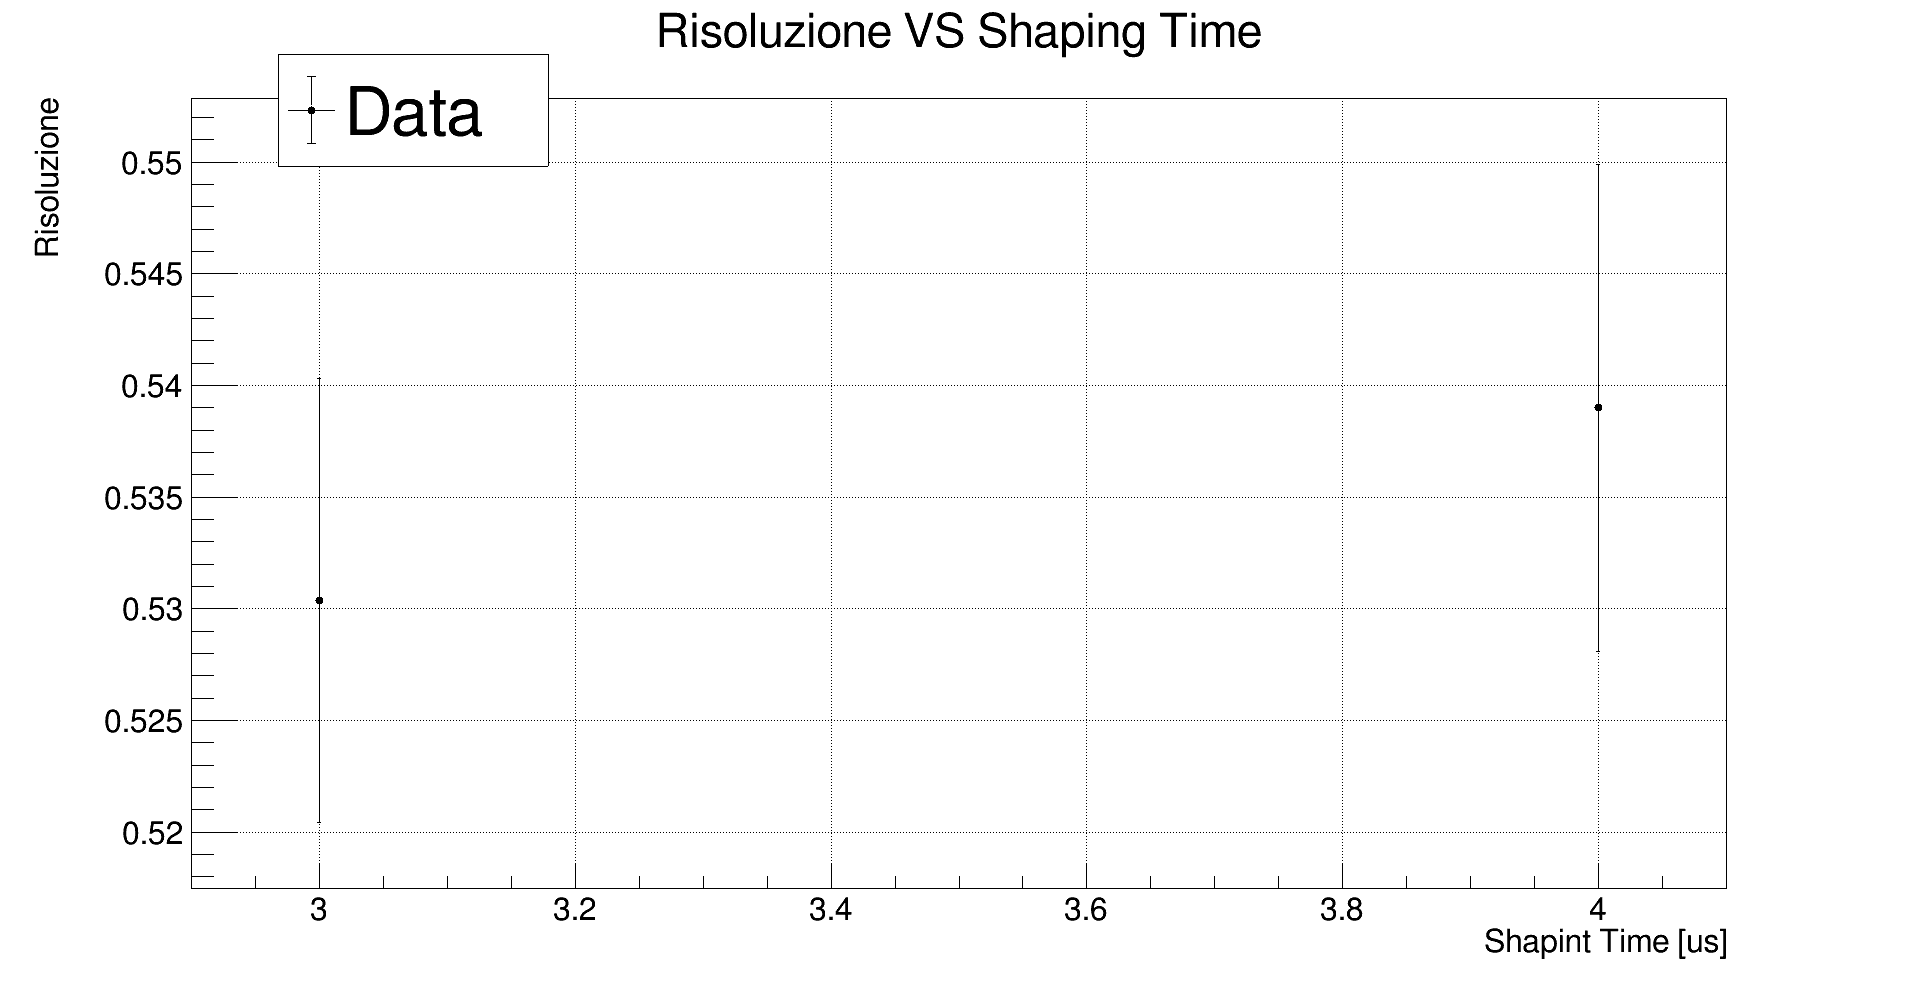
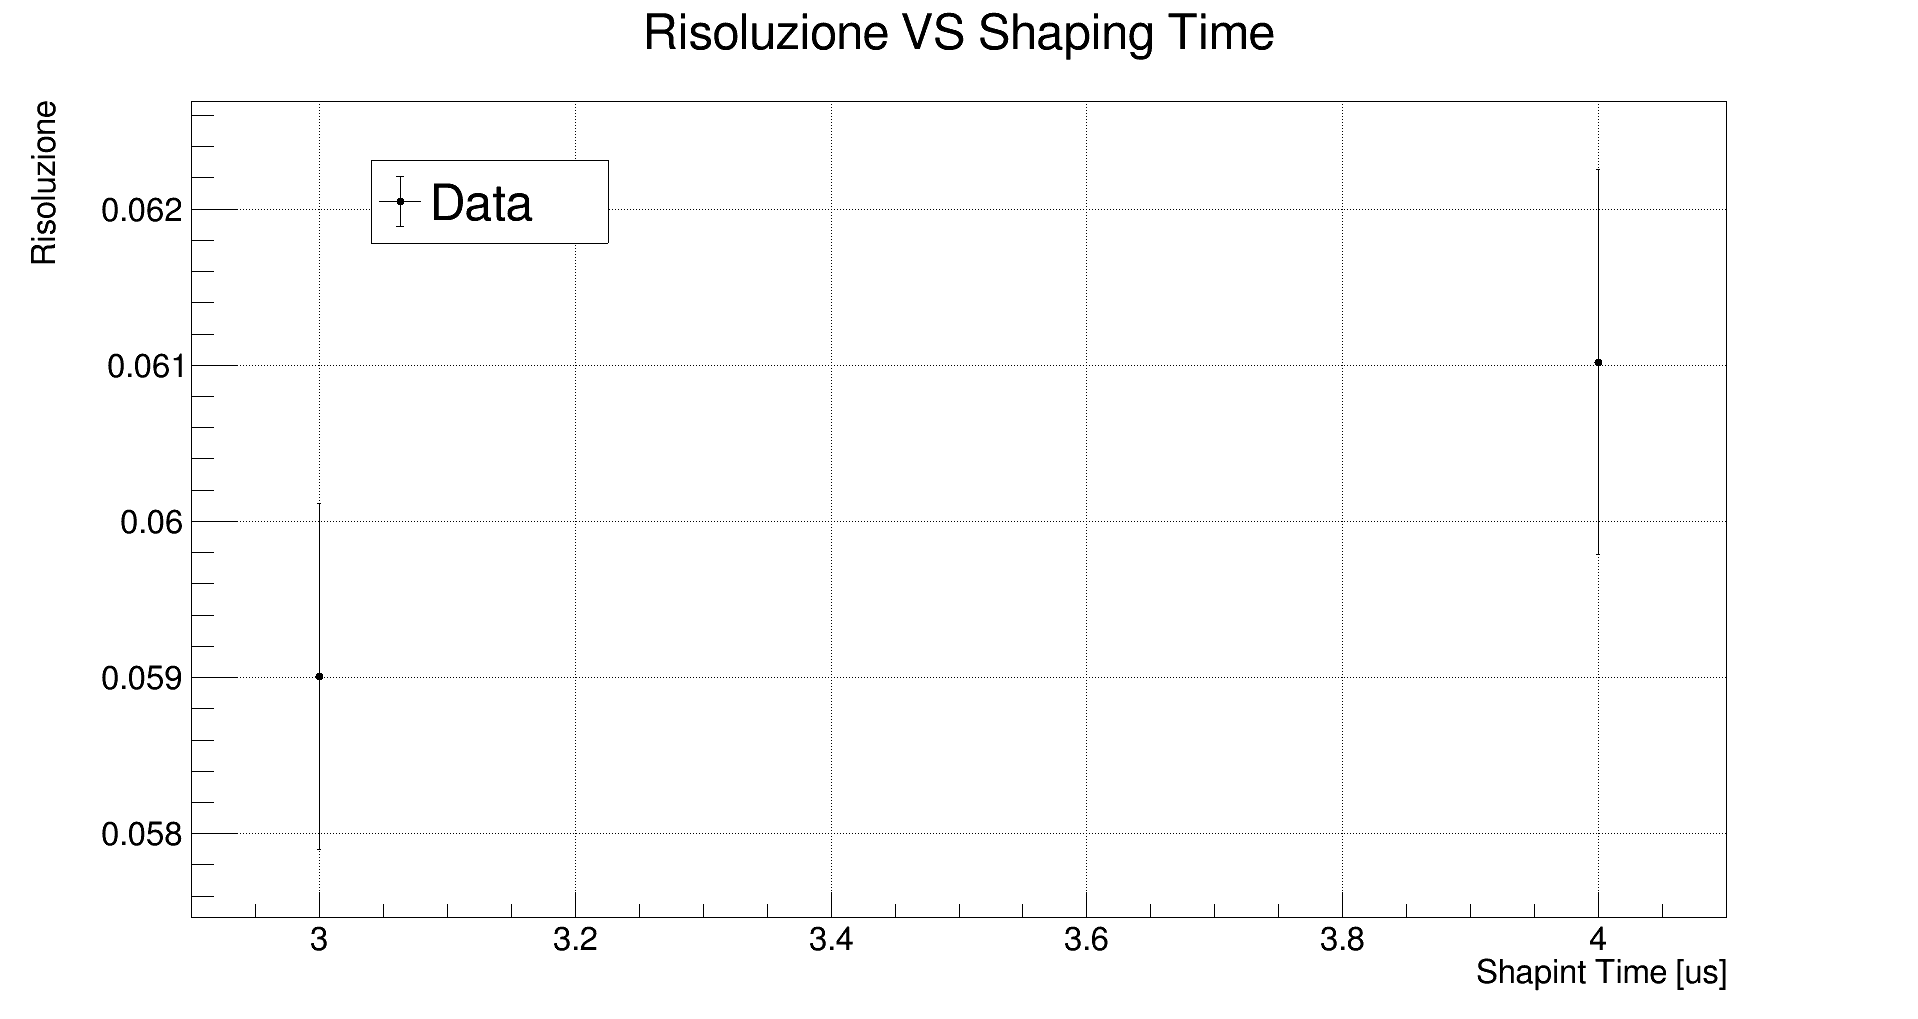
update
correzione risoluzione energetica

diff --git a/spettroscopia/fotodiodo/analisi/code/RisolizioneCalculator.cc b/spettroscopia/fotodiodo/analisi/code/RisolizioneCalculator.cc
@@ -40,7 +40,7 @@ vector<double> Risoluzione;
 vector<double> ErrRisoluzione;
 
 double TheConstant = 2 * sqrt(2) * sqrt( log(2) );
-double TheEnergy = 60; //keV
+vector<double> TheEnergy = {539.3,530}; //le medie delle gaussiane
 
 //------------------------------------------------------------------
 
@@ -55,11 +55,11 @@ int main(int argN, char* argL[]){
   //calcolo delle risoluzioni
   for(int i=0; i<ShapingTime.size(); i++){
     Holder = 0;
-    Holder = TheConstant * SigmaGaussianaFit.at(i) / TheEnergy;
+    Holder = TheConstant * SigmaGaussianaFit.at(i) / TheEnergy.at(i);
     Risoluzione.push_back(Holder);
     
     Holder = 0;
-    Holder = TheConstant * ErrSigmaGaussianaFit.at(i) / TheEnergy;
+    Holder = TheConstant * ErrSigmaGaussianaFit.at(i) / TheEnergy.at(i);
     ErrRisoluzione.push_back(Holder);
   }
   

diff --git a/spettroscopia/fotodiodo/analisi/risultati/risoluzione_energetica/risultati_calcolo.md b/spettroscopia/fotodiodo/analisi/risultati/risoluzione_energetica/risultati_calcolo.md
@@ -5,6 +5,9 @@
 Da 3 a 4 us
 
 ``` 
-0.53038 \pm 0.00994546
-0.538999 \pm 0.0108906
+Risoluzioni con relativo errore: 
+
+0.0590076 \pm 0.00110649
+0.0610187 \pm 0.00123289
+
 ```
